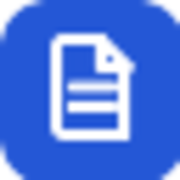
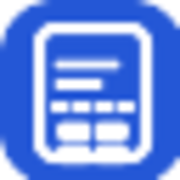
Renomme en DemoProd, nouveau pictogramme, sous-titre agrandi
- "DemoProspect" -> "DemoProd" dans le logo affiché (nom technique du
  dépôt/domaine inchangé, ce n'est pas un rebranding infra).
- Remplace le picto générique "fichier" (identique au favicon générique
  vu partout) par un motif propre au produit : document avec lignes de
  texte en haut, une ligne de scan en pointillés, puis une grille de
  blocs pleins en bas — raconte visuellement "texte brut -> données
  structurées". Appliqué au logo ET régénéré pour favicon.svg/.ico et
  apple-touch-icon.png (cohérence onglet/page).
- "Lecture de documents" remonté en sous-titre visible : 15px gris pâle
  -> 22px (19px mobile), gras, couleur texte principale.

Claude-Session: https://claude.ai/code/session_01Kmjwqe3cTsDizRj345YFha

diff --git a/public/index.html b/public/index.html
@@ -61,7 +61,7 @@
     background: var(--dp-primary); border-radius: var(--dp-radius-md); color: #fff;
   }
   .dp-logo-mark svg { width: 24px; height: 24px; }
-  .dp-tagline { margin: var(--dp-space-2) 0 0; font-size: 15px; color: var(--dp-ink-soft); }
+  .dp-tagline { margin: var(--dp-space-2) 0 0; font-size: 22px; font-weight: 550; letter-spacing: -.005em; color: var(--dp-ink); }
 
   [hidden] { display: none !important; }
 
@@ -138,7 +138,7 @@
     .dp-logo { font-size: 21px; gap: 10px; }
     .dp-logo-mark { width: 36px; height: 36px; }
     .dp-logo-mark svg { width: 20px; height: 20px; }
-    .dp-tagline { font-size: 14px; }
+    .dp-tagline { font-size: 19px; }
   }
 </style>
 </head>
@@ -147,9 +147,20 @@
   <header class="dp-header">
     <h1 class="dp-logo">
       <span class="dp-logo-mark" aria-hidden="true">
-        <svg viewBox="0 0 32 32" fill="none"><path d="M9 4h9l6 6v18H9a2 2 0 0 1-2-2V6a2 2 0 0 1 2-2Z" stroke="currentColor" stroke-width="2"/><path d="M18 4v7h7" stroke="currentColor" stroke-width="2"/><path d="M11 16h10M11 21h10" stroke="currentColor" stroke-width="2" stroke-linecap="round"/></svg>
+        <svg viewBox="0 0 20 24" fill="none" stroke="currentColor" stroke-width="1.7" stroke-linecap="round">
+          <rect x="0.85" y="0.85" width="18.3" height="22.3" rx="2.6"/>
+          <line x1="4" y1="7" x2="14" y2="7" stroke-opacity=".6" stroke-width="1.4"/>
+          <line x1="4" y1="10.3" x2="11" y2="10.3" stroke-opacity=".6" stroke-width="1.4"/>
+          <line x1="3.5" y1="14.2" x2="16.5" y2="14.2" stroke-dasharray="1.5 2.1" stroke-width="1.6"/>
+          <g stroke="none" fill="currentColor">
+            <rect x="4" y="17" width="5.2" height="2.9" rx="1"/>
+            <rect x="10.5" y="17" width="5.2" height="2.9" rx="1"/>
+            <rect x="4" y="20.9" width="5.2" height="2.9" rx="1"/>
+            <rect x="10.5" y="20.9" width="5.2" height="2.9" rx="1"/>
+          </g>
+        </svg>
       </span>
-      DemoProspect
+      DemoProd
     </h1>
     <p class="dp-tagline">Lecture de documents</p>
   </header>
